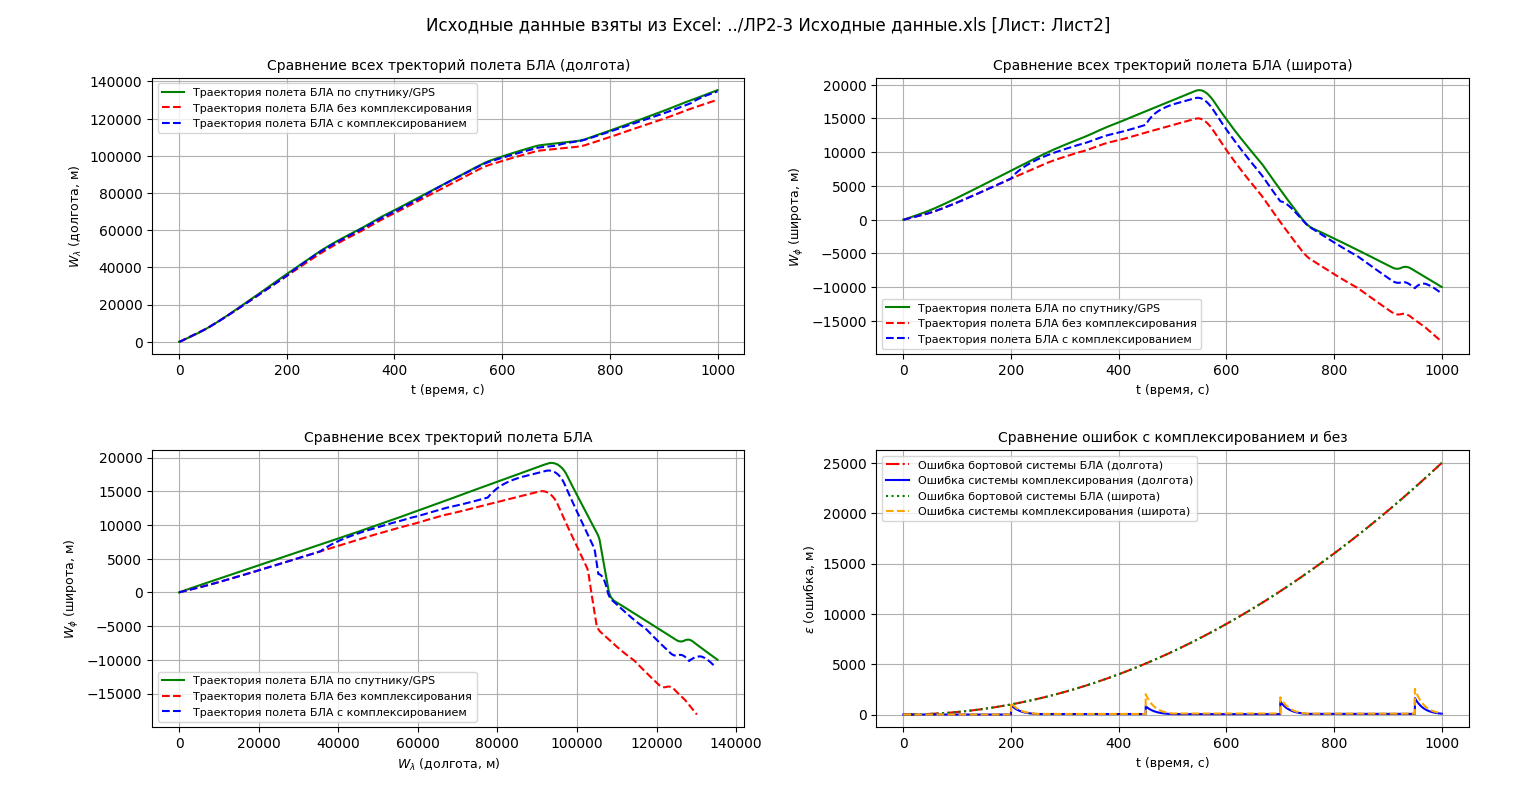
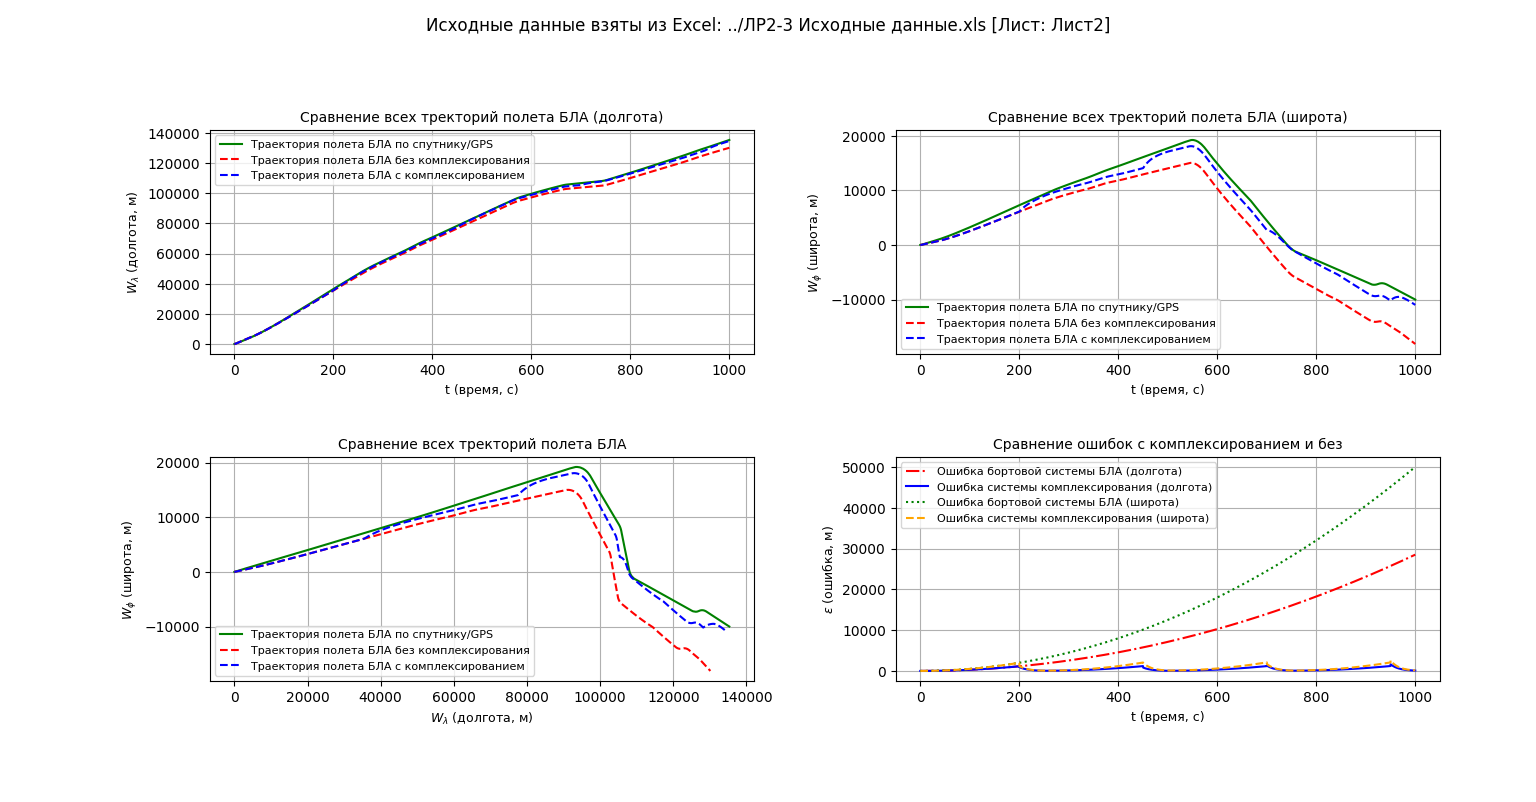
fixed and completed

diff --git a/Classical mathematical models of complex system/Laba3_BLAFlightSimulation/Laba3_BLAFlightSimulation.py b/Classical mathematical models of complex system/Laba3_BLAFlightSimulation/Laba3_BLAFlightSimulation.py
@@ -215,12 +215,13 @@ class RealisticComplexation:
         - dt                    : временной шаг моделирования.
     """
     def __init__(self, 
-                 flight_duration, GPS_period, GPS_visible_duration, accuracy, C, dt):
+                 flight_duration, GPS_period, GPS_visible_duration, accuracy, Cx, Cy, dt):
         self.flight_duration = flight_duration
         self.GPS_period = GPS_period
         self.GPS_visible_duration = GPS_visible_duration
         self.accuracy = accuracy
-        self.C = C
+        self.Cx = Cx
+        self.Cy = Cy
         self.dt = dt
         # Параметр комплексирования k.
         self.k = self._calculate_k_parameter()
@@ -276,8 +277,8 @@ class RealisticComplexation:
             # Иначе спутник не виден.
             else:
                 # Последняя запомненная ошибка.
-                error_x = error_x
-                error_y = error_y
+                error_x += self.Cx * time_between_interval * self.dt
+                error_y += self.Cy * time_between_interval * self.dt
                 time_between_interval += self.dt
             errors_x.append(error_x)
             errors_y.append(error_y)
@@ -296,8 +297,8 @@ class RealisticComplexation:
         t_values = np.arange(0, self.flight_duration + self.dt, self.dt)
         for i, t in enumerate(t_values):
             # Ошибка = GPS - СВС (система воздушных сигналов). По идее изменяется квадратичным законом.
-            error_x += self.C * t * self.dt
-            error_y += self.C * t * self.dt
+            error_x += self.Cx * t * self.dt
+            error_y += self.Cy * t * self.dt
             errors_x.append(error_x)
             errors_y.append(error_y)
         return errors_x, errors_y
@@ -318,15 +319,16 @@ class ModelManager:
         - wind_angle            : угол ветра;
         - A_angle               : угол атаки БЛА;
         - GPS_period            : период до появления спутника (GPS);
-        - GPS_visible_duration   : время видимости спутника (GPS);
-        - C                     : коэффициент роста квадратичной зависимости ошибки определения положения координат БЛА от времени полета;
+        - GPS_visible_duration  : время видимости спутника (GPS);
+        - Cx                    : коэффициент роста квадратичной зависимости ошибки определения положения координат БЛА от времени полета по долготе;
+        - Cy                    : коэффициент роста квадратичной зависимости ошибки определения положения координат БЛА от времени полета по широте;
         - flight_duration       : временной промежуток моделирования;
         - dt                    : временной шаг моделирования;
         - x_sp                  : координаты положения БЛА по GPS - долгота (м);
         - y_sp                  : координаты положения БЛА по GPS - широта (м).
     """
     def __init__(self, V_air=100, V_wind=25, K_angle=45, wind_angle=120, A_angle=5,
-                 GPS_period=1200, GPS_visible_duration=60, accuracy=0.95, C=0.001,
+                 GPS_period=1200, GPS_visible_duration=60, accuracy=0.95, Cx=0.001, Cy=0.001,
                  flight_duration=3600, dt=0.1, x_sp=None, y_sp=None):
         # GPS.
         self.x_sp = x_sp
@@ -336,9 +338,9 @@ class ModelManager:
         self.BLA_flight = FlightModelSimulator(V_air, V_wind, K_angle, wind_angle, A_angle, flight_duration, dt)
         # Моделирование ошибок полета БЛА.
         if self.x_sp is None and self.y_sp is None:
-            self.BLA_errors = ComplexationSimulator(flight_duration, GPS_period, GPS_visible_duration, accuracy, C, dt)
+            self.BLA_errors = ComplexationSimulator(flight_duration, GPS_period, GPS_visible_duration, accuracy, Cx, dt)
         else:
-            self.realistic_BLA_errors = RealisticComplexation(flight_duration, GPS_period, GPS_visible_duration, accuracy, C, dt)
+            self.realistic_BLA_errors = RealisticComplexation(flight_duration, GPS_period, GPS_visible_duration, accuracy, Cx, Cy, dt)
 
     def run(self):
         """ Реализация моделирования полета БЛА и расчета ошибок """
@@ -471,7 +473,7 @@ if __name__ == "__main__":
     
     # --- Моделирование ---
     sim_BLA = ModelManager(V_air=V_air, V_wind=V_wind, K_angle=K_angle, wind_angle=wind_angle, A_angle=A_angle,
-                           GPS_period=GPS_period, GPS_visible_duration=GPS_visible_duration, C=C,
+                           GPS_period=GPS_period, GPS_visible_duration=GPS_visible_duration, Cx=C, Cy=C,
                            flight_duration=flight_duration, dt=dt)
 
     # 2. Экспериментальные данные.
@@ -482,7 +484,7 @@ if __name__ == "__main__":
     data = ExcelParser(filepath=filepath).execute_data_from_Excel(sheet_name=sheet_name)
     # --- Моделирование ---
     realistic_BLA = ModelManager(V_air=data['Vpr'], V_wind=data['W'], K_angle=data['psi'], wind_angle=data['omega'], A_angle=data['tkk'], 
-                                 GPS_period=200, GPS_visible_duration=50, accuracy=0.95, C=0.05, flight_duration=data['t'][-1], 
+                                 GPS_period=200, GPS_visible_duration=50, accuracy=0.95, Cx=0.057, Cy=0.1, flight_duration=data['t'][-1], 
                                  dt=data['t'][1]-data['t'][0], x_sp=data['Z'],y_sp=data['X'])
     
     # 1,2. --- Визуализация ---
